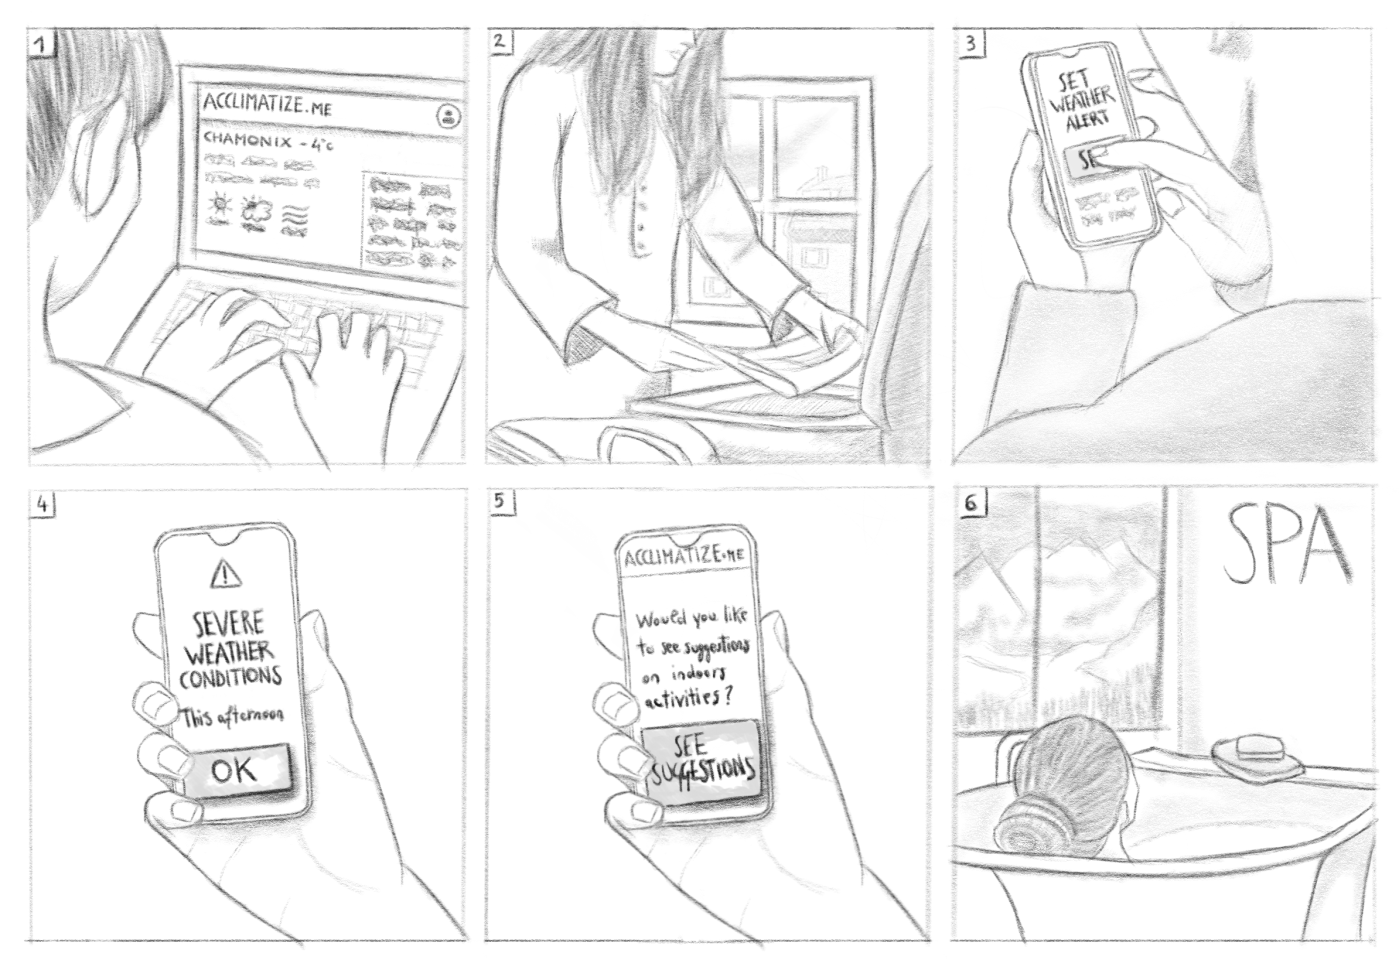
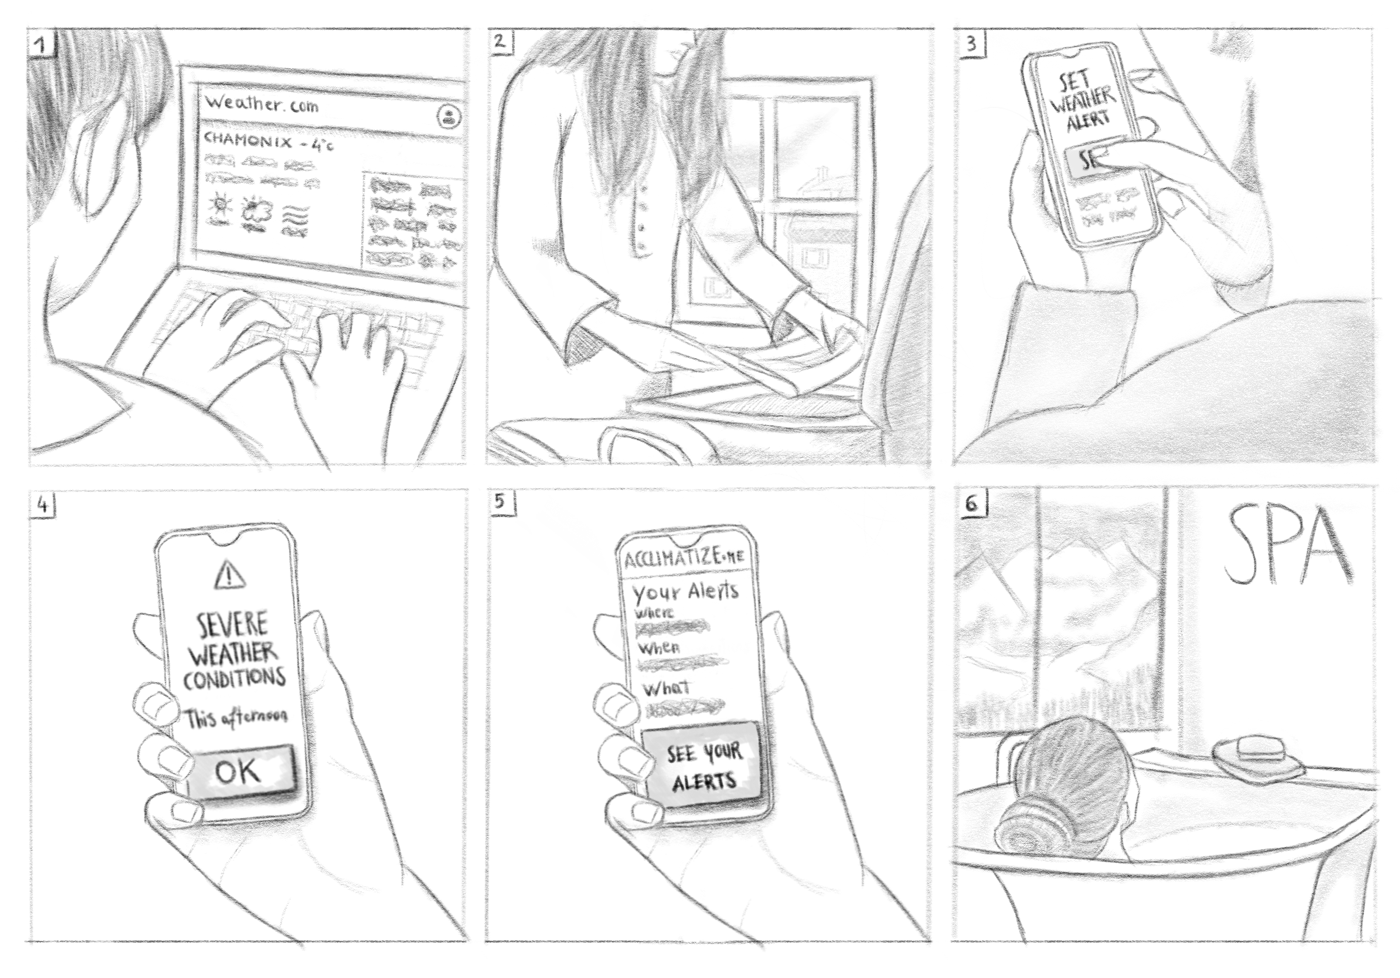
Updates to Acclimatize-me case study

Changed region(s): [[0.4303, 0.5527, 0.5533, 0.8291], [0.1229, 0.5527, 0.2152, 0.8291], [0.1537, 0.0921, 0.2459, 0.1228]]

diff --git a/_casestudies/case-study-acclimatize-me.md b/_casestudies/case-study-acclimatize-me.md
@@ -4,7 +4,7 @@ title: 'Acclimatize.me - Notification app for travellers'
 featured-post: false
 casestudy-order: 2
 date: 2021-02-18T21:39:15.000Z
-last_modified_at: '2021-09-28 19:34:20'
+last_modified_at: '2021-10-08 10:54:29'
 description: "How can you design a product that helps travellers prepare and acclimatize fast for their trip so they don't miss a minute of fun?"
 excerpt: "How can you design a product that helps travellers prepare and acclimatize fast for their trip so they don't miss a minute of fun?"
 featured-image: feat-acclimatize-case-study-featured-img.jpg
@@ -22,10 +22,10 @@ tools:
   - Miro
   - Figma
 problem: "How can you design a product that <strong>helps travellers prepare and acclimatize fast for their trip</strong> so they don’t miss a minute of fun?"
-solution: "A prototype of a mobile app that lets people set up alerts about weather changes, and notifications from local authorities."
+solution: "The prototype of a mobile app that lets people set up alerts about weather changes, and notifications from local authorities."
 myrole: "Solo project, where I explored the process from finding the users’ needs to visual design."
 ---
-## Job story
+## User story
 
 > *When I travel I want to what to expect so I can enjoy my stay from start to finish.*
 
@@ -39,15 +39,15 @@ myrole: "Solo project, where I explored the process from finding the users’ ne
 ## Storyboard
 
 <ol>
-<li>Jill visits the web version of the app before travelling. She checks the weather and all the information and advice available.</li>
+<li>Jill visits the web version of the app before travelling. She checks the weather and all the available information and advice.</li>
 <li>She starts her trip to Chamonix.</li>
-<li>After arriving at her destination, she sets up the alerts.</li>
+<li>Upon arrival, she sets up the alerts.</li>
 <li>On a day when she wanted to ski, the weather is forecast to change dramatically for the worst.</li>
 <li>Jill can change plans in time.</li>
 <li>She makes the most of her day.</li>
 </ol>
 
-{% include pattern-figure.html image="/assets/images/acclimatize-me-storyboard.png" caption="Paper storyboard" width="1399" height="977" %}
+{% include pattern-figure.html image="/assets/images/acclimatize-me-storyboard.png" caption="Paper storyboard" width="1400" height="978" %}
 
 ## User flow
 
@@ -59,9 +59,13 @@ Any important weather changes or communication from the local authorities will t
 
 ## Sketches
 
-The basic screens involved in setting the alerts.
+Setting up the alerts.
 
-{% include pattern-figure.html image="/assets/images/acclimatize-me-sketches.jpeg" caption="Notification setup sketches" width="1400" height="643" %}
+{% include pattern-figure.html image="/assets/images/acclimatize-me-alert-sketches.jpeg" caption="Alert setup sketches" width="1400" height="643" %}
+
+Receiving the notifications.
+
+{% include pattern-figure.html image="/assets/images/acclimatize-me-notifications-sketches.png" caption="Notification sketches" width="1400" height="823" %}
 
 ## Wireframes
 
@@ -70,6 +74,19 @@ I used the wireframes to test the solution, and subsequently iterated based on t
 {% include pattern-figure.html image="/assets/images/acclimatize-me-wireframes-flow.jpeg" caption="App wireframes and flow on Figma" width="1400" height="703" %}
 
 ## Visual design
+
+Following feedback from travellers and interviewers, I've updated the design of the app to be:
+
+<ul class="smd-ul">
+<li><strong>Simpler</strong>. The initial idea was for it to be a tool that does one thing: setting up alerts to avoid travel uncertainties.</li>
+<li><strong>More private</strong>. People shouldn't need to create an account to receive notifications.</li>
+</ul>
+
+{% include pattern-figure.html image="/assets/images/acclimatize-me-v2-visual-design.jpg" caption="App main screens" width="1400" height="609" %}
+
+{% include pattern-figure.html image="/assets/images/acclimatize-me-v2-visual-design-notifications.jpg" caption="Notification received" width="1400" height="800" %}
+
+### Previous version
 
 With the intent of **guiding the users through an intuitive procedure** to set up the alerts, I:
 
@@ -83,7 +100,9 @@ With the intent of **guiding the users through an intuitive procedure** to set u
 
 ## Prototype
 
-<div class="iframe-container"><iframe loading="lazy" style="border: 1px solid rgba(0, 0, 0, 0.1);" width="800" height="450" src="https://www.figma.com/embed?embed_host=share&amp;url=https%3A%2F%2Fwww.figma.com%2Fproto%2F2UOI7kiE7NHy3jpxTwmbXx%2FAcclimatize.me-App%3Fnode-id%3D221%253A499" allowfullscreen=""></iframe></div>
+Try the prototype — fullscreen available using the controls within the container below.
+
+<div class="iframe-container"><iframe loading="lazy" style="border: 1px solid rgba(0, 0, 0, 0.1);" width="800" height="450" src="https://www.figma.com/embed?embed_host=share&url=https%3A%2F%2Fwww.figma.com%2Fproto%2F2UOI7kiE7NHy3jpxTwmbXx%2FAcclimatize.me-App%3Fpage-id%3D1108%253A397%26node-id%3D1202%253A384%26viewport%3D241%252C48%252C0.37%26scaling%3Dscale-down%26starting-point-node-id%3D1202%253A384" allowfullscreen=""></iframe></div>
 
 ## Conclusions
 
